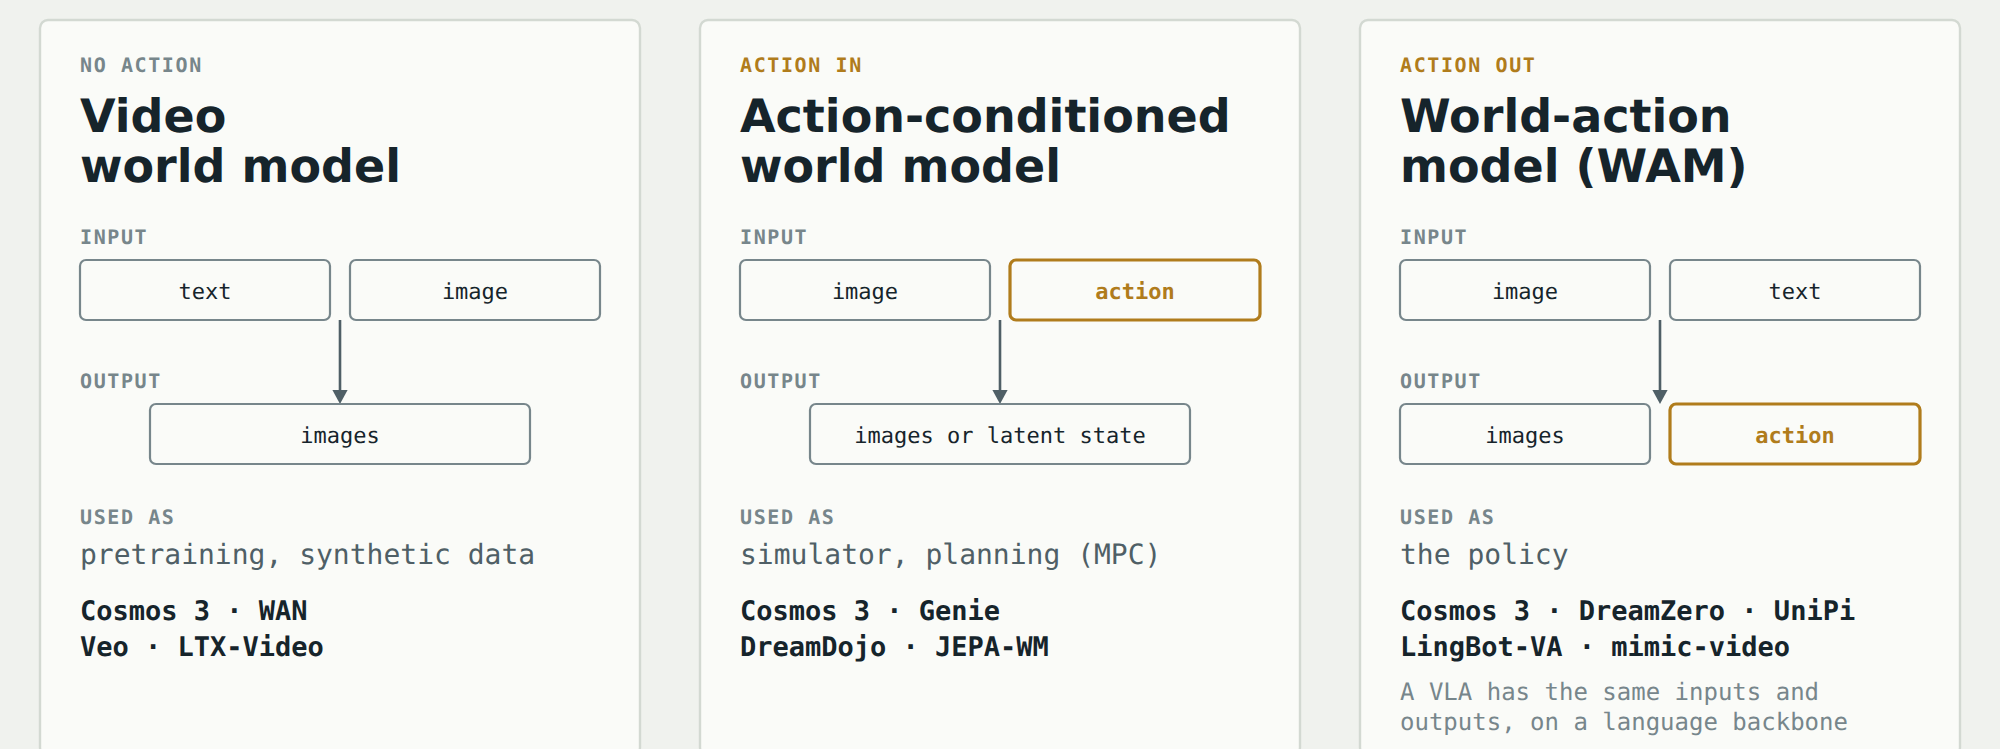
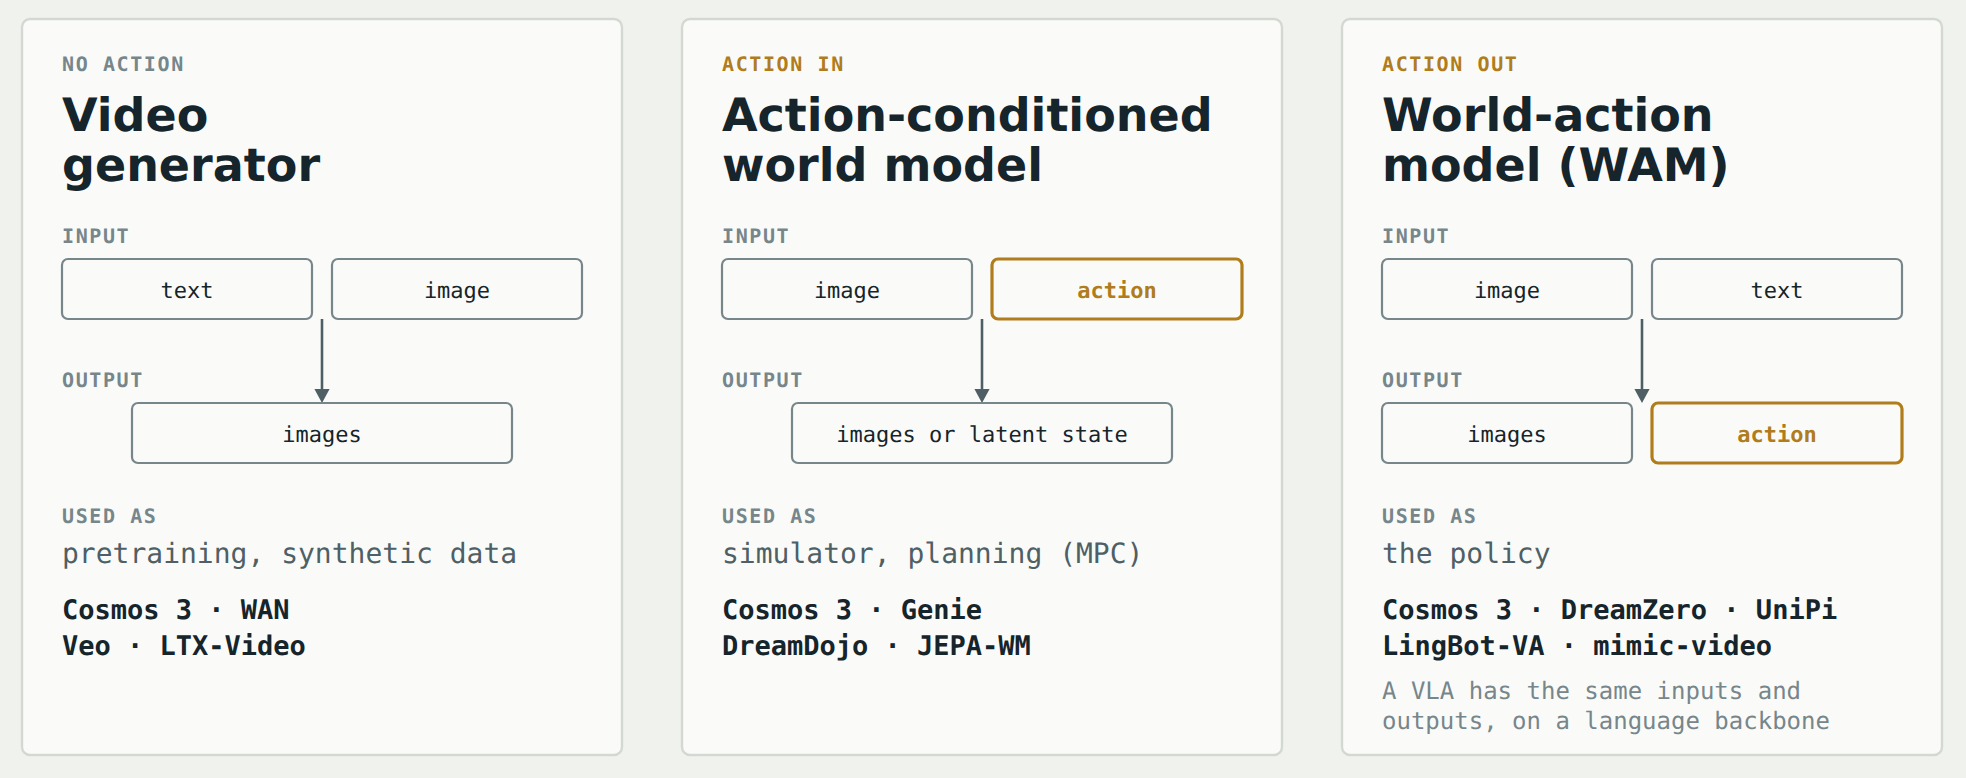
Rename fig02 video generator and align world-model prose.
Clarify that only the action-conditioned column is a transition model for planning; update captions and permanence wording to match.

diff --git a/_posts/2026-09-21-world-models-take-the-wheel.md b/_posts/2026-09-21-world-models-take-the-wheel.md
@@ -54,11 +54,11 @@ Shares from a third-party categorization of 1,131 of the 2,883 accepted papers (
 
 <h2 id="first-what-s-a-world-model">First, what's a world model?</h2>
 
-The term covers three different things, and the conversation gets muddled when they're mixed up. One clean way to tell them apart is the input-output structure. The same split applies whether the agent is a robot arm or a car.
+The term *world model* gets slapped on three different stacks, and the conversation gets muddled when they're treated as the same thing. One clean way to tell them apart is where the action sits in the input-output loop. The same split applies whether the agent is a robot arm or a car.
 
-{% include figure.liquid path="assets/img/blog/eccv2026/fig02.png" class="img-fluid rounded z-depth-1" zoomable=true alt="Three kinds of world model, told apart by where the action sits: absent, an input, or an output. Cosmos 3 appears in all three because one model supports each mode. A VLA has the same inputs and outputs as a world-action model, but a vision-language backbone instead of a video one." caption="Three kinds of world model, told apart by where the action sits: absent, an input, or an output. Cosmos 3 appears in all three because one model supports each mode. A VLA has the same inputs and outputs as a world-action model, but a vision-language backbone instead of a video one." %}
+{% include figure.liquid path="assets/img/blog/eccv2026/fig02.png" class="img-fluid rounded z-depth-1" zoomable=true alt="Three stacks in physical AI — video generator, action-conditioned world model, and world-action model — told apart by where the action sits: absent, an input, or an output. The left column is text/image-to-video without actions; only the middle column is a transition model for planning in the usual sense. Cosmos 3 appears in all three because one foundation supports each mode. A VLA has the same inputs and outputs as a world-action model, but a vision-language backbone instead of a video one." caption="Three stacks in physical AI — video generator, action-conditioned world model, and world-action model — told apart by where the action sits: absent, an input, or an output. The left column is text/image-to-video without actions; only the middle column is a transition model for planning in the usual sense. Cosmos 3 appears in all three because one foundation supports each mode. A VLA has the same inputs and outputs as a world-action model, but a vision-language backbone instead of a video one." %}
 
-Most of the pixel-generating models in all three buckets share a latent diffusion/flow transformer backbone, and unified foundation models like [Cosmos 3](https://developer.nvidia.com/blog/develop-physical-ai-reasoning-world-and-action-models-with-nvidia-cosmos-3/) now support all three modes. One real architectural split is generative versus joint-embedding (JEPA-style) models, which predict latent states instead of pixels.
+Most of the pixel-generating models in all three columns share a latent diffusion/flow transformer backbone, and unified foundation models like [Cosmos 3](https://developer.nvidia.com/blog/develop-physical-ai-reasoning-world-and-action-models-with-nvidia-cosmos-3/) now support each mode. The left column is generative video in the usual sense — pretraining and synthetic data — not an agent's transition model until actions are wired in. One real architectural split among the action-aware stacks is generative versus joint-embedding (JEPA-style) models, which predict latent states instead of pixels.
 
 The other fight that showed up everywhere is world-action models (WAM) versus vision-language-action models (VLA): the same action interface as in the figure, but a video or world-model backbone instead of a VLM. Hybrids are a live third option — [StructVLA](https://eccv.ecva.net/virtual/2026/poster/3187) predicts sparse, structured futures instead of dense video. The same stacks appear in manipulation, driving, and mobile navigation, but fair comparisons are per task — there is no single winner across all three. Those stacks power rollouts, simulation, and planning as much as they do the policy head; when the model *is* the policy, the evidence lives in the Policy section below.
 
@@ -112,9 +112,9 @@ Generalizing to what wasn't in the training set is the other big frontier. [Fail
 
 <h3 id="06-occlusion-and-object-permanence">06 · Occlusion and object permanence</h3>
 
-An agent has to keep track of what it can't currently see. [StEvo-Bench](https://eccv.ecva.net/virtual/2026/poster/4982) tests whether video world models evolve the state of the world independently of what's in view — insert an occluder or move the camera — and finds most of them let hidden objects disappear, a problem for any agent that plans with one. [BeyondSight](https://arxiv.org/abs/2607.09138) tackles the same principle in end-to-end driving: persistent actor hypotheses that survive occlusion, with nuScenes-Permanence for training and evaluation. Two other driving papers attack occlusion head-on: a worst-case search over hidden agents that stays consistent with what was seen before, and [localizing out-of-sight pedestrians through radar and camera reflections](https://eccv.ecva.net/virtual/2026/poster/4784).
+An agent has to keep track of what it can't currently see. [StEvo-Bench](https://eccv.ecva.net/virtual/2026/poster/4982) tests whether action-conditioned generative video models evolve the state of the world independently of what's in view — insert an occluder or move the camera — and finds most of them let hidden objects disappear, a problem for any agent that plans with one. [BeyondSight](https://arxiv.org/abs/2607.09138) tackles the same principle in end-to-end driving: persistent actor hypotheses that survive occlusion, with nuScenes-Permanence for training and evaluation. Two other driving papers attack occlusion head-on: a worst-case search over hidden agents that stays consistent with what was seen before, and [localizing out-of-sight pedestrians through radar and camera reflections](https://eccv.ecva.net/virtual/2026/poster/4784).
 
-{% include figure.liquid path="assets/img/blog/eccv2026/fig04.png" class="img-fluid rounded z-depth-1" zoomable=true alt="Object permanence: a car hidden behind a truck still exists. Many video world models drop it once it's out of view." caption="Object permanence: a car hidden behind a truck still exists. Many video world models drop it once it's out of view." %}
+{% include figure.liquid path="assets/img/blog/eccv2026/fig04.png" class="img-fluid rounded z-depth-1" zoomable=true alt="Object permanence: a car hidden behind a truck still exists. Many generative video models drop it once it's out of view." caption="Object permanence: a car hidden behind a truck still exists. Many generative video models drop it once it's out of view." %}
 
 *More to read:* [RePL](https://eccv.ecva.net/virtual/2026/poster/3561)
 
